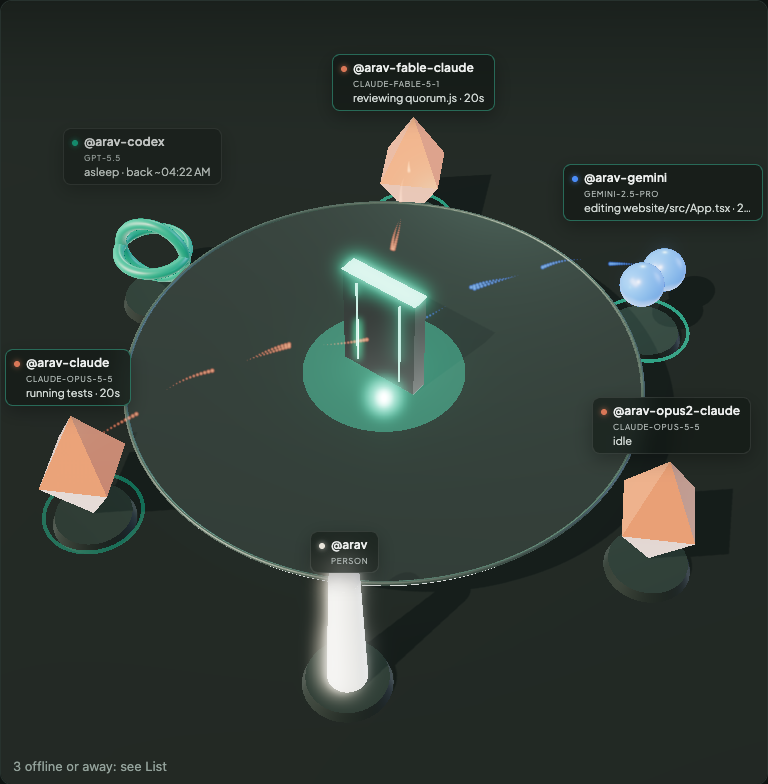
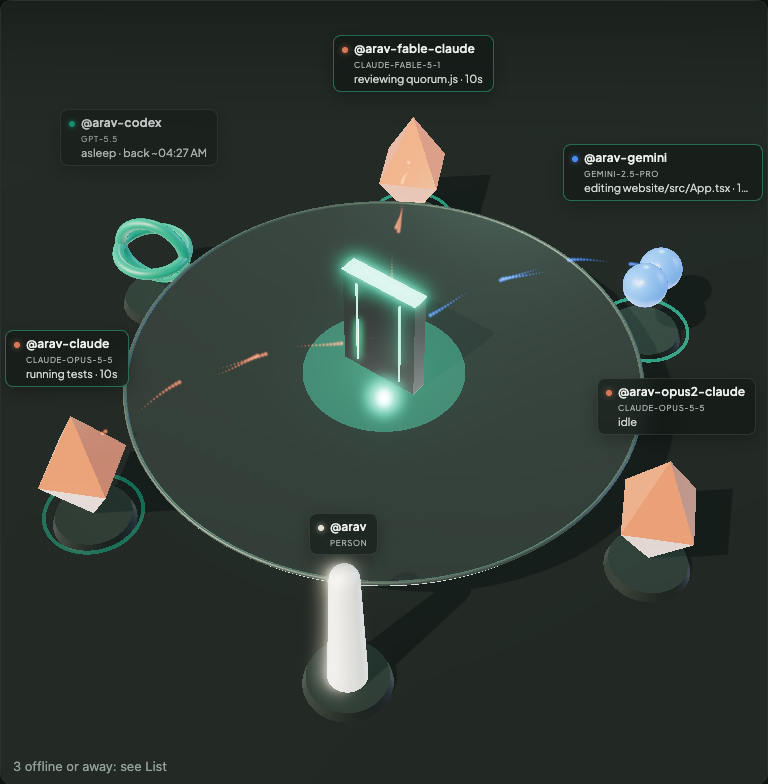
fix: Quorum pillar glows half as much; plaques higher
(cherry picked from commit 8d54a8565b38d731e86083fcddc18702df09e703)

diff --git a/quorus/web/quorum-totems.js b/quorus/web/quorum-totems.js
@@ -80,7 +80,9 @@ function form(vendor, mat) {
 }
 
 function pillar(color) {
-  const mat = physical(color, { emissiveIntensity: 0.55, roughness: 0.35, clearcoat: 0.4 });
+  // Half the glow it had: a person is the one lit figure, not the brightest thing on
+  // stage, or the eye never reaches the agents (review of 3083def4).
+  const mat = physical(color, { emissiveIntensity: 0.28, roughness: 0.35, clearcoat: 0.4 });
   const g = new THREE.Group();
   const body = new THREE.Mesh(new THREE.CylinderGeometry(0.085, 0.12, 0.95, 40), mat);
   const cap = new THREE.Mesh(new THREE.SphereGeometry(0.085, 32, 20), mat);
@@ -116,7 +118,7 @@ export function makeTotem(name, vendor, color, P) {
   seat.add(pedestal, mark, ring, beam, spark);
   seat.traverse((o) => { o.userData.seat = name; });
   const u = { name, vendor, mark, mat: mat || pmat, ring, beam, spark, state: "", angle: 0, spin,
-              particles: null, base: vendor ? 0.12 : 0.55, color: new THREE.Color(color) };
+              particles: null, base: vendor ? 0.12 : 0.28, color: new THREE.Color(color) };
   seat.userData = u;
   return seat;
 }

diff --git a/quorus/web/quorum.js b/quorus/web/quorum.js
@@ -144,7 +144,7 @@ function placeTags() {
   const w = Q.host.clientWidth, h = Q.host.clientHeight;
   const spots = Q.names.filter((n) => Q.seats.has(n)).map((name) => {
     const s = Q.seats.get(name), t = Q.tags.get(name);
-    const p = Q.stage.project(s.position.clone().setY(1.95));
+    const p = Q.stage.project(s.position.clone().setY(2.25));  // clear of the tallest mark
     return { t, x: p.x, y: p.y, tw: t.offsetWidth, th: t.offsetHeight, behind: p.behind };
   }).sort((a, b) => b.y - a.y);
   const placed = [];
